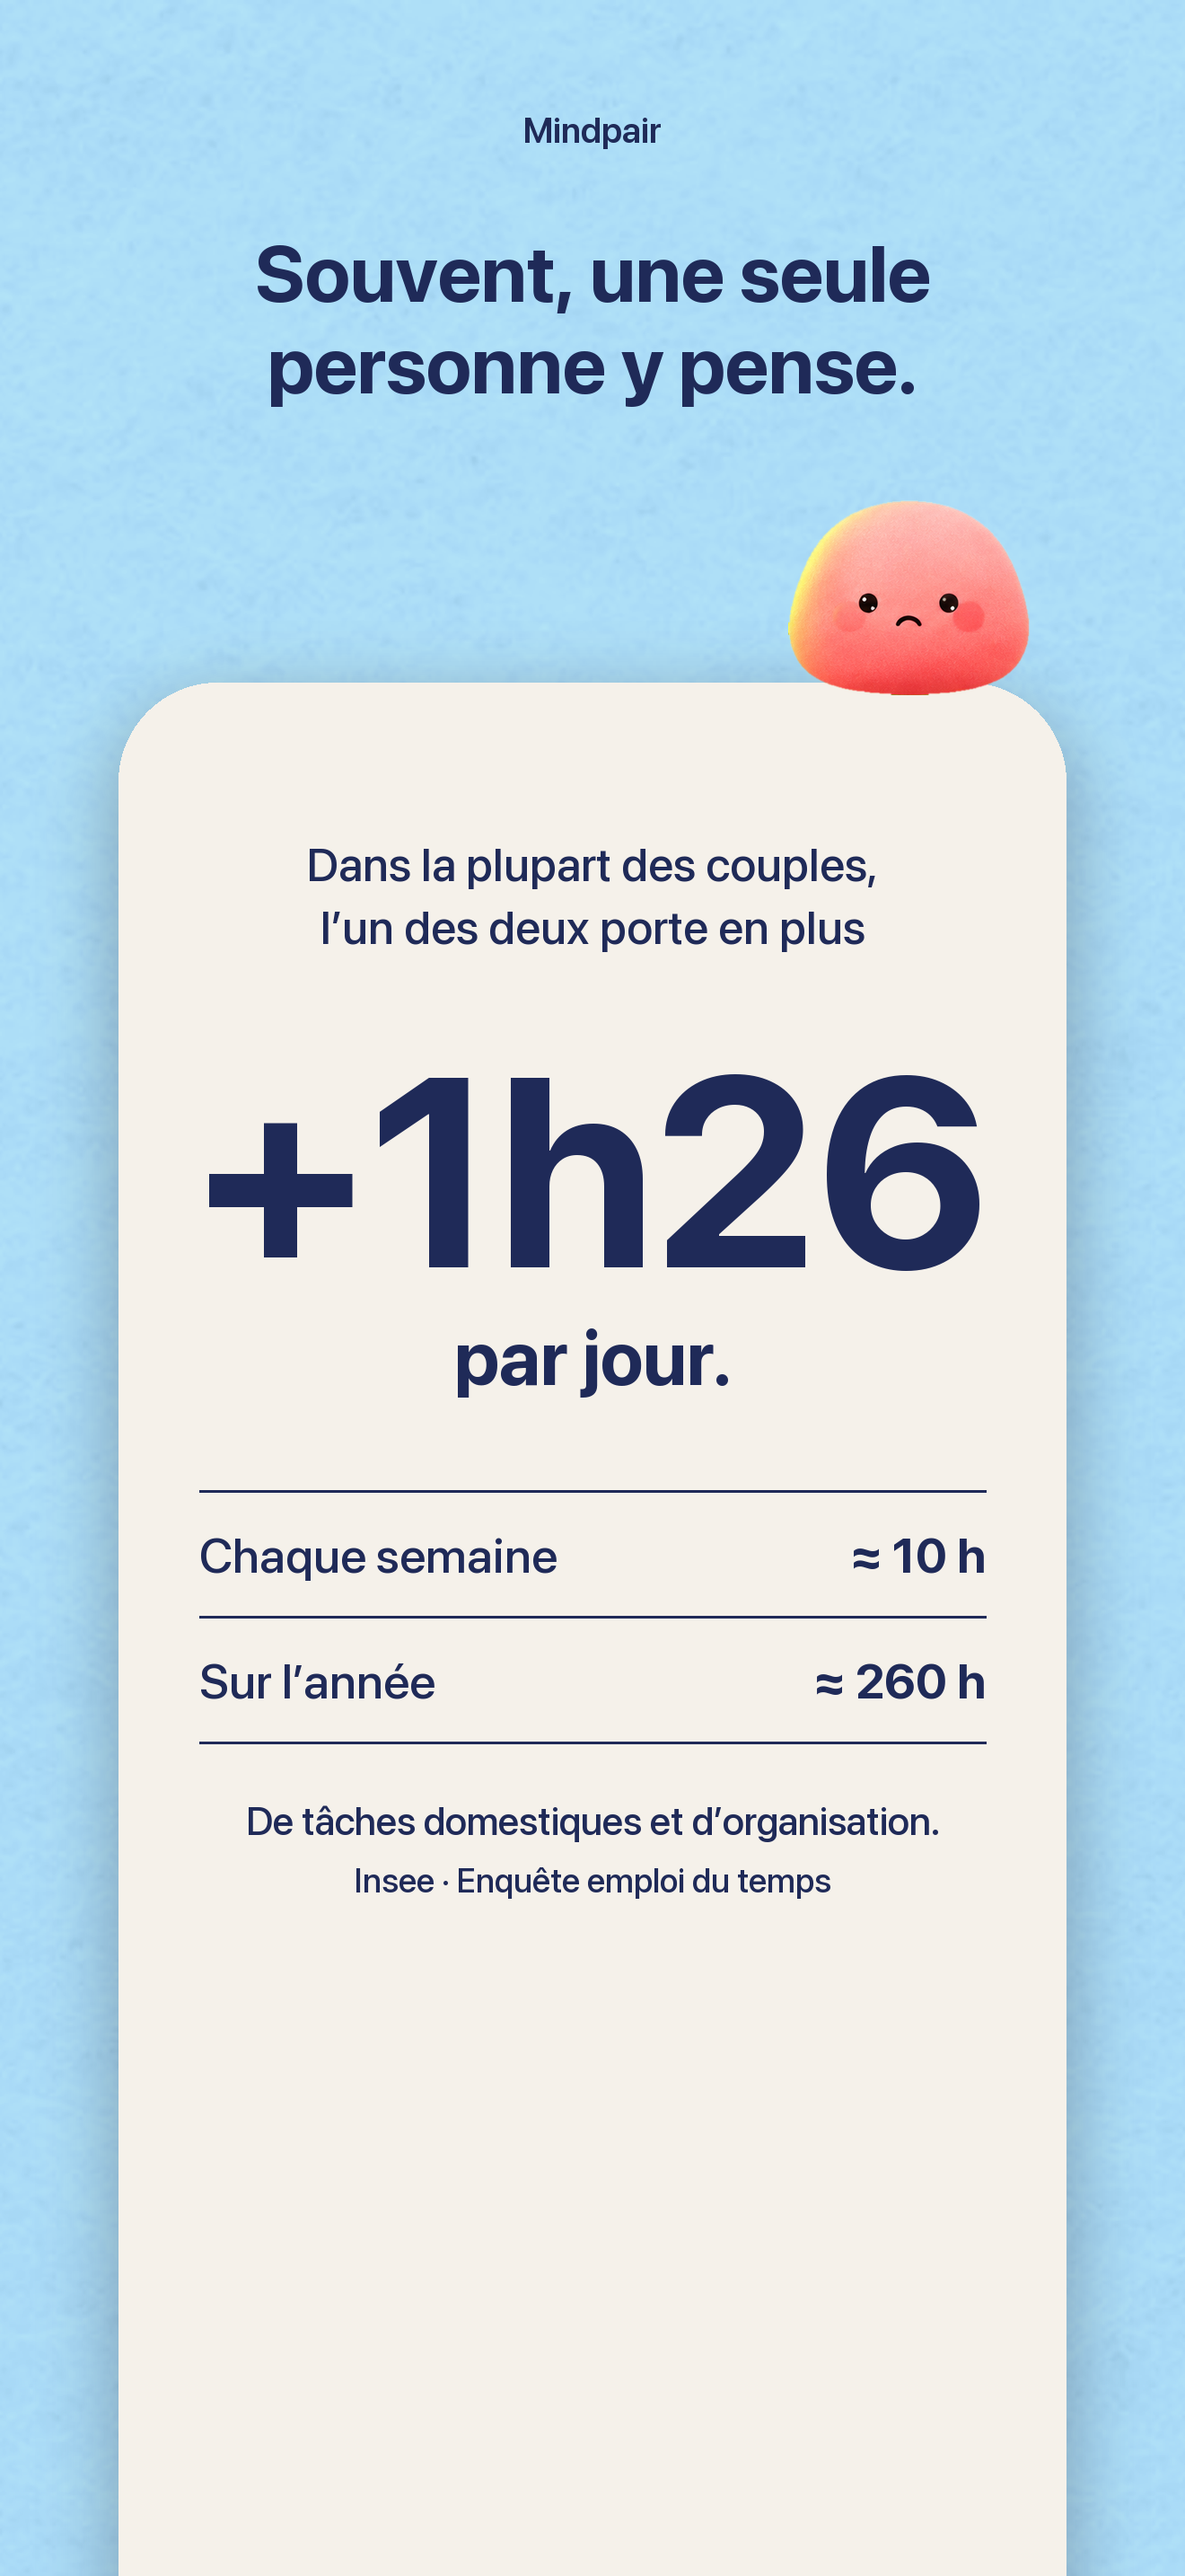
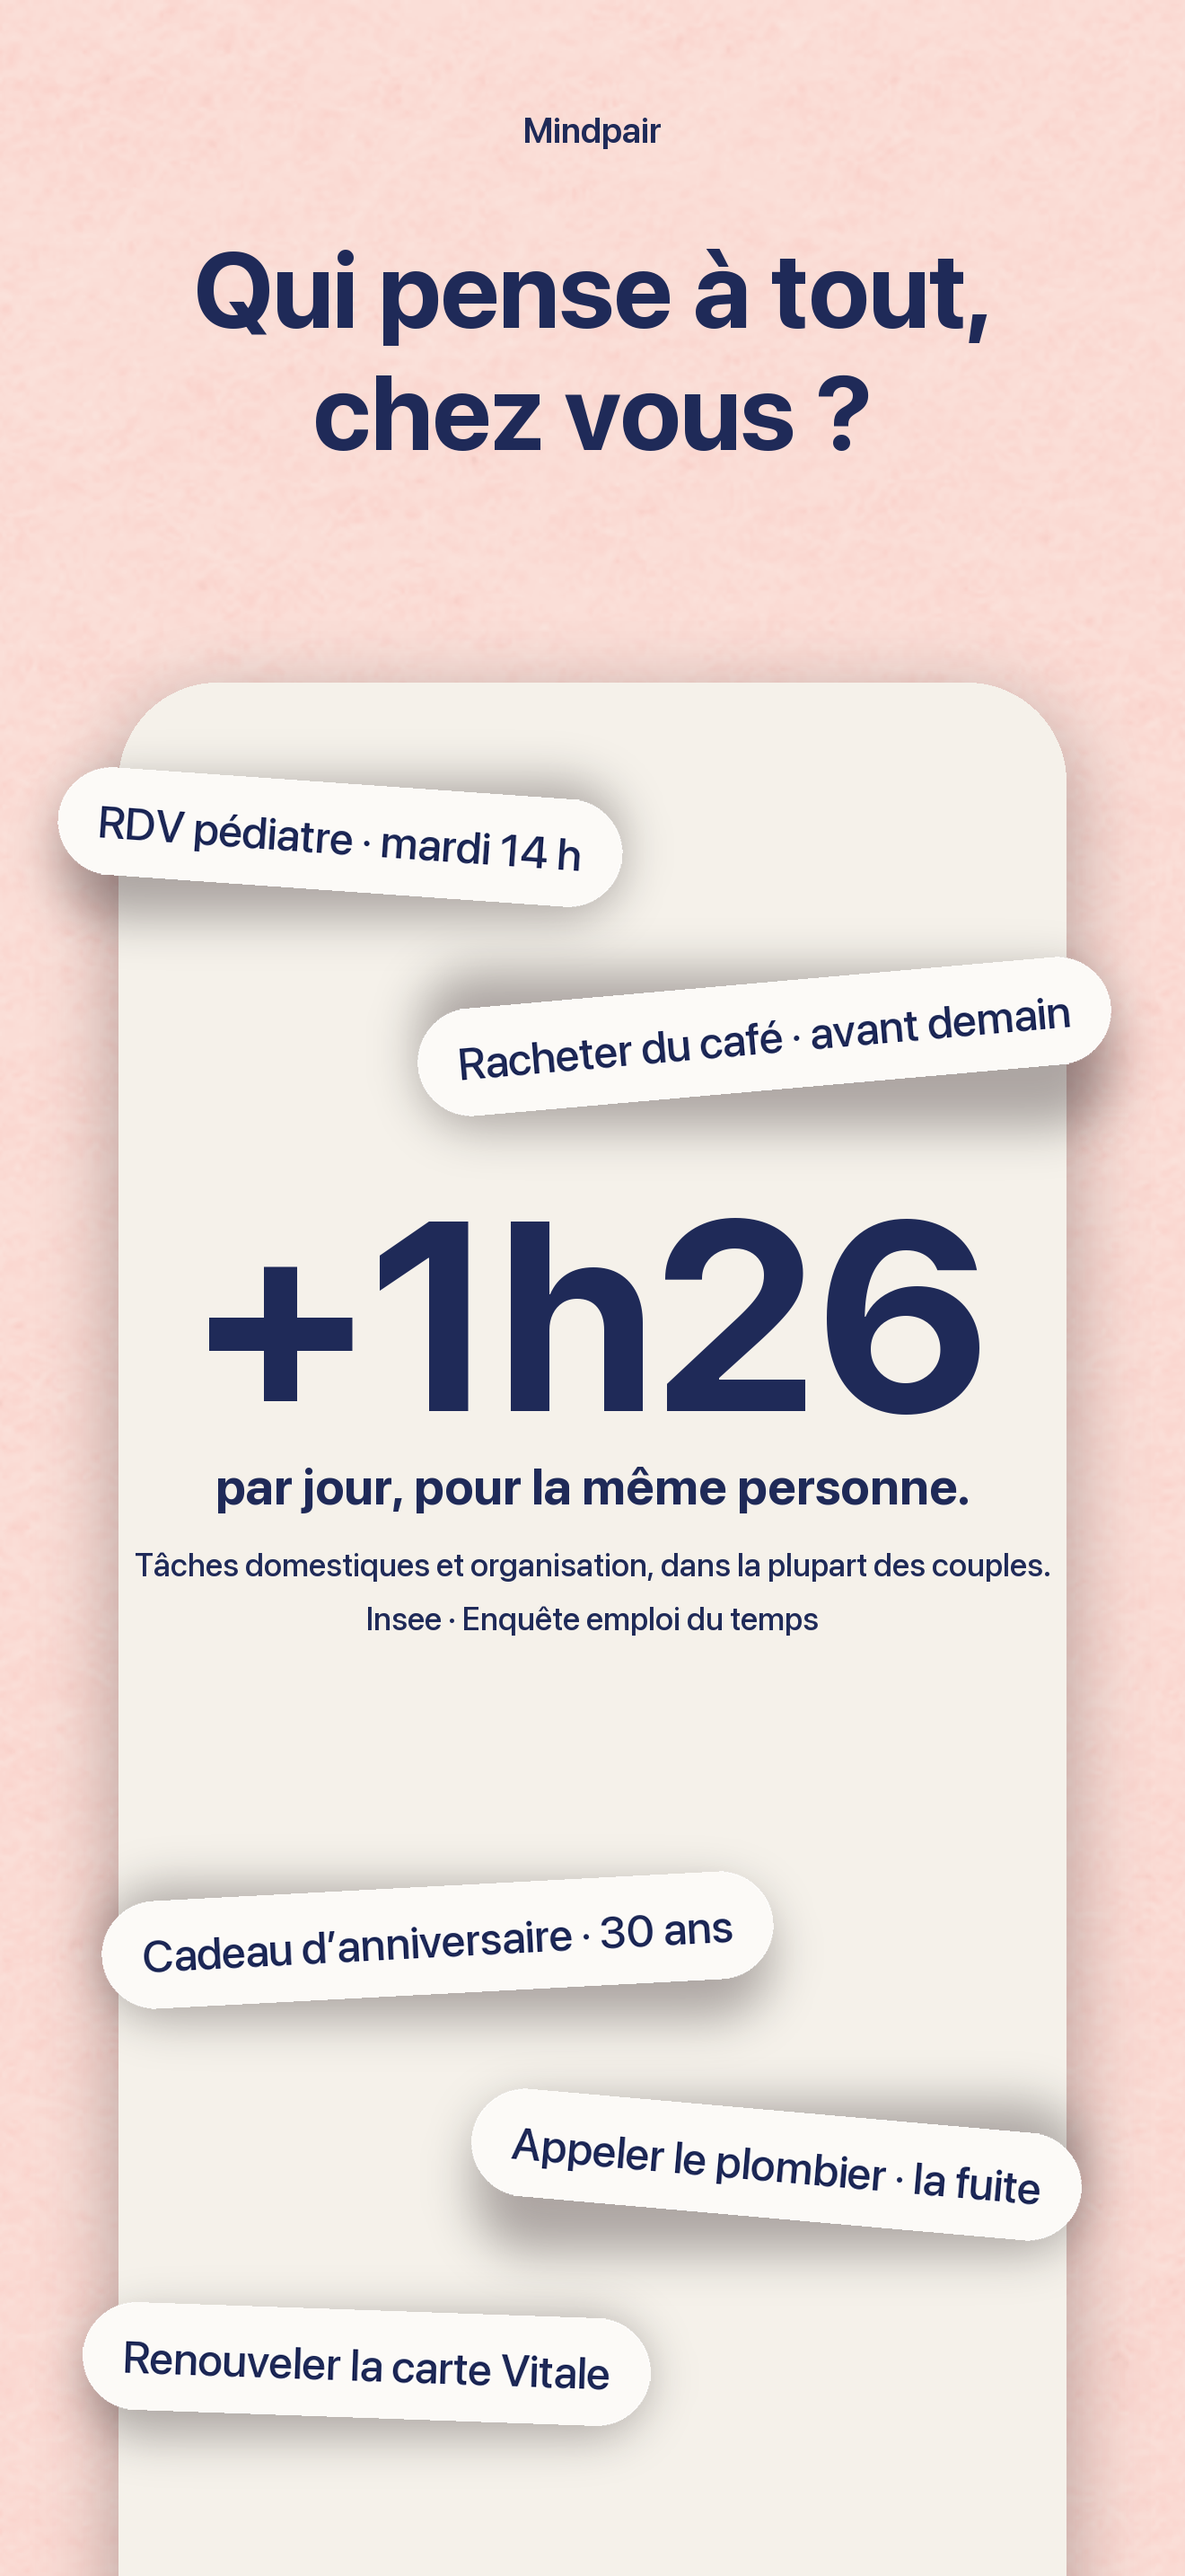
Captures App Store v3 : un fond, titres piquants, vraies notifications qui ressortent

diff --git a/scripts/captures-app-store.py b/scripts/captures-app-store.py
@@ -1,14 +1,14 @@
-# Captures App Store v2 (9 nov 2026) : une grille fixe (titre au même endroit, téléphone même taille / même hauteur),
-# une couleur franche de la pièce de Mochi par écran, Mochi qui réagit au titre, un élément qui ressort du téléphone.
+# Captures App Store v3 (9 nov 2026) : une grille fixe, UN fond (le rose du mur de la pièce, en feutre) pour les six,
+# titres courts et piquants, et ce qui ressort du téléphone raconte : vraies notifications de l'app, pensées en vrac, perles.
 # Captures brutes : design/app-store/brut/ (simulateur iPhone 16 Pro Max, Metro avec EXPO_PUBLIC_CAPTURE=1).
 from PIL import Image, ImageDraw, ImageFont, ImageFilter
 M='/Users/jeannecazalot/mochi/'; B=M+'design/app-store/brut/'; O=M+'design/app-store/'
 W,H=1320,2868; INK=(31,42,88); CREAM=(250,244,236)
 SF='/System/Library/Fonts/SFNS.ttf'
-TITLE_Y=250; TITLES=['Partagez la charge mentale,','en vous amusant.','Souvent, une seule','personne y pense.','Vous listez tout ce qui','tourne dans vos t\u00eates.','Mochi r\u00e9partit,','\u00e9quitablement.','Chacun ses missions.','Plus besoin de relancer.','Et vous \u00e9levez Mochi,','ensemble.']; PHONE_Y=760; PHONE_W=int(W*0.80); MOCHI_W=270
+TITLE_Y=250; TITLES=['La charge mentale,','\u00e7a se partage.','Qui pense \u00e0 tout,','chez vous ?','Videz vos t\u00eates.','\u00c0 deux.','Mochi r\u00e9partit.','Sans d\u00e9bat.','Fini les','\u00ab t\u2019as pens\u00e9 \u00e0\u2026 ? \u00bb','Une mission coch\u00e9e,','une perle gagn\u00e9e.']; PHONE_Y=760; PHONE_W=int(W*0.80); MOCHI_W=270
 def font(sz,w):
     f=ImageFont.truetype(SF,sz); f.set_variation_by_name(w); return f
-_d=ImageDraw.Draw(Image.new('RGB',(10,10))); TITLE_SZ=104
+_d=ImageDraw.Draw(Image.new('RGB',(10,10))); TITLE_SZ=118
 while max(_d.textlength(l,font=font(TITLE_SZ,'Bold')) for l in TITLES)>W-200: TITLE_SZ-=2  # une seule taille pour les six titres
 FELT=Image.open(M+'assets/splash/feutre.jpg').convert('L').resize((H,H)).crop(((H-W)//2,0,(H-W)//2+W,H))
 def bg(col):
@@ -49,49 +49,71 @@ def mochi(im,face):
     x=(W+PHONE_W)//2-MOCHI_W-40; y=PHONE_Y-16-m.height+30
     im.alpha_composite(m,(x,y)); return im
 
-ROSE=(246,196,192); CIEL=(158,207,236); VERT=(166,206,128); JAUNE=(248,214,104); ROUGE=(214,74,64); NUIT=(31,42,88)
+WALL=(244,206,199)
+ICON=Image.open(M+'design/icone/H-meme-cadrage.png').convert('RGBA')
+def notif(im,x,y,w,title_,body_,when='maintenant'):
+    # bannière de notification iOS, textes réels de l'app (copy.push), corps sur 2 lignes au besoin
+    fb=font(42,'Regular'); d0=ImageDraw.Draw(Image.new('RGB',(1,1))); fx=172; maxw=w-fx-40
+    words=body_.split(' '); lines=['']
+    for wd in words:
+        t=(lines[-1]+' '+wd).strip()
+        if d0.textlength(t,font=fb)<=maxw: lines[-1]=t
+        else: lines.append(wd)
+    h=190+56*len(lines); card=Image.new('RGBA',(w,h),(0,0,0,0)); d=ImageDraw.Draw(card)
+    d.rounded_rectangle((0,0,w-1,h-1),56,fill=(252,250,247,250))
+    ic=ICON.resize((104,104),Image.LANCZOS); card.paste(ic,(36,(h-104)//2),rounded(ic,24))
+    d.text((fx,44),title_,font=font(44,'Semibold'),fill=(20,20,24))
+    fw=font(34,'Regular'); tw=d.textlength(when,font=fw); d.text((w-40-tw,50),when,font=fw,fill=(120,120,128))
+    for i,l in enumerate(lines): d.text((fx,108+56*i),l,font=fb,fill=(30,30,36))
+    im=shadow(im,(x,y,x+w,y+h),56,a=110,blur=36,dy=20); im.paste(card,(x,y),card); return im
+def chip(im,x,y,text,angle):
+    f=font(50,'Medium'); d0=ImageDraw.Draw(Image.new('RGB',(1,1))); w=int(d0.textlength(text,font=f))+90; h=120
+    c=Image.new('RGBA',(w,h),(0,0,0,0)); d=ImageDraw.Draw(c); d.rounded_rectangle((0,0,w-1,h-1),60,fill=(252,250,247,255))
+    d.text((45,30),text,font=f,fill=INK); c=c.rotate(angle,expand=True,resample=Image.BICUBIC)
+    im=shadow(im,(x+10,y+10,x+c.width-10,y+c.height-10),60,a=90,blur=26,dy=14); im.alpha_composite(c,(x,y)); return im
 
 # 1 · la promesse
-im=bg(ROSE); title(im,['Partagez la charge mentale,','en vous amusant.'],INK)
-im,g=phone(im,'accueil.png'); im=pop(im,'accueil.png',(40,1170,1280,1260),g,zoom=1.16); im=mochi(im,'happy')
+im=bg(WALL); title(im,['La charge mentale,','\u00e7a se partage.'],INK)
+im,g=phone(im,'accueil.png'); im=pop(im,'accueil.png',(40,1170,1280,1260),g,zoom=1.16)
+im=notif(im,90,PHONE_Y+1180,W-180,'Mindpair','Ketley a termin\u00e9 Vaisselle')
 im.convert('RGB').save(O+'01-promesse.png')
 
-# 2 · le problème : une « carte » à la place du téléphone, même gabarit
-im=bg(CIEL); title(im,['Souvent, une seule','personne y pense.'],INK)
+# 2 · le problème : la carte Insee, et les pensées en vrac qui débordent
+im=bg(WALL); title(im,['Qui pense \u00e0 tout,','chez vous ?'],INK)
 px=(W-PHONE_W)//2; py=PHONE_Y; im=shadow(im,(px,py,px+PHONE_W,H+200),110)
 card=Image.new('RGBA',(PHONE_W,H-py+200),(0xF5,0xF1,0xEA,255)); im.paste(card,(px,py),rounded(card,110))
 d=ImageDraw.Draw(im)
 def ctext(y,t,f,fill):
     w=d.textlength(t,font=f); d.text(((W-w)/2,y),t,font=f,fill=fill)
-ctext(py+170,'Dans la plupart des couples,',font(52,'Medium'),INK+(170,)); ctext(py+240,'l’un des deux porte en plus',font(52,'Medium'),INK+(170,))
-ctext(py+360,'+1h26',font(300,'Bold'),INK); ctext(py+700,'par jour.',font(84,'Bold'),INK)
-y=py+900; fr=font(54,'Medium'); fv=font(54,'Bold')
-for t,v in [('Chaque semaine','≈ 10 h'),('Sur l’année','≈ 260 h')]:
-    d.line((px+90,y,px+PHONE_W-90,y),fill=INK+(40,),width=3); d.text((px+90,y+38),t,font=fr,fill=INK+(180,))
-    w=d.textlength(v,font=fv); d.text((px+PHONE_W-90-w,y+38),v,font=fv,fill=INK); y+=140
-d.line((px+90,y,px+PHONE_W-90,y),fill=INK+(40,),width=3)
-ctext(y+60,'De tâches domestiques et d’organisation.',font(44,'Medium'),INK+(150,))
-ctext(y+130,'Insee · Enquête emploi du temps',font(38,'Medium'),INK+(120,))
-im=mochi(im,'sad'); im.convert('RGB').save(O+'02-probleme.png')
+ctext(py+520,'+1h26',font(300,'Bold'),INK); ctext(py+860,'par jour, pour la m\u00eame personne.',font(56,'Bold'),INK)
+ctext(py+960,'T\u00e2ches domestiques et organisation, dans la plupart des couples.',font(36,'Medium'),INK+(150,))
+ctext(py+1020,'Insee \u00b7 Enqu\u00eate emploi du temps',font(36,'Medium'),INK+(120,))
+for (x,y,t,a) in [(60,PHONE_Y+90,'RDV p\u00e9diatre \u00b7 mardi 14 h',-4),(460,PHONE_Y+300,'Racheter du caf\u00e9 \u00b7 avant demain',5),(110,PHONE_Y+1320,'Cadeau d\u2019anniversaire \u00b7 30 ans',3),(520,PHONE_Y+1560,'Appeler le plombier \u00b7 la fuite',-5),(90,PHONE_Y+1800,'Renouveler la carte Vitale',-2)]:
+    im=chip(im,x,y,t,a)
+im.convert('RGB').save(O+'02-probleme.png')
 
 # 3 · vous listez à deux
-im=bg(VERT); title(im,['Vous listez tout ce qui','tourne dans vos têtes.'],INK)
-im,g=phone(im,'taches.png'); im=pop(im,'taches.png',(56,848,1264,1040),g); im=pop(im,'taches.png',(56,1052,1264,1240),g); im=mochi(im,'surprised')
+im=bg(WALL); title(im,['Videz vos t\u00eates.','\u00c0 deux.'],INK)
+im,g=phone(im,'taches.png'); im=pop(im,'taches.png',(56,848,1264,1040),g); im=pop(im,'taches.png',(56,1052,1264,1240),g)
+im=notif(im,90,PHONE_Y+1500,W-180,'Mindpair','Ketley choisit vos missions. Viens les choisir avec elle ou lui.')
 im.convert('RGB').save(O+'03-lister.png')
 
 # 4 · Mochi répartit
-im=bg(JAUNE); title(im,['Mochi répartit,','équitablement.'],INK)
-im,g=phone(im,'dispatch.png'); im=pop(im,'dispatch.png',(60,872,1260,1144),g,zoom=1.16); im=mochi(im,'happy')
+im=bg(WALL); title(im,['Mochi r\u00e9partit.','Sans d\u00e9bat.'],INK)
+im,g=phone(im,'dispatch.png'); im=pop(im,'dispatch.png',(60,872,1260,1144),g,zoom=1.2)
+im=notif(im,90,PHONE_Y+1560,W-180,'Mindpair','Ketley a r\u00e9parti la semaine : 12 missions. Va voir le Planning.')
 im.convert('RGB').save(O+'04-repartir.png')
 
-# 5 · chacun ses missions
-im=bg(ROUGE); title(im,['Chacun ses missions.','Plus besoin de relancer.'],CREAM)
-im,g=phone(im,'planning.png'); im=pop(im,'planning.png',(40,960,1290,1080),g,zoom=1.16); im=mochi(im,'wink')
+# 5 · plus besoin de relancer : l'app relance à votre place
+im=bg(WALL); title(im,['Fini les','\u00ab t\u2019as pens\u00e9 \u00e0\u2026 ? \u00bb'],INK)
+im,g=phone(im,'planning.png')
+im=notif(im,90,PHONE_Y+760,W-180,'Vaisselle','C\u2019est l\u2019heure. 15 min suffisent.','20:30')
+im=notif(im,90,PHONE_Y+1060,W-180,'Mindpair','Ketley : c\u2019est ton tour pour \u00ab Lessive \u00bb')
 im.convert('RGB').save(O+'05-chacun.png')
 
-# 6 · vous élevez Mochi
-im=bg(NUIT); title(im,['Et vous élevez Mochi,','ensemble.'],CREAM)
-im,g=phone(im,'chambre.png'); im=pop(im,'chambre.png',(60,1300,1264,1515),g,zoom=1.16); im=mochi(im,'happy')
+# 6 · le jeu
+im=bg(WALL); title(im,['Une mission coch\u00e9e,','une perle gagn\u00e9e.'],INK)
+im,g=phone(im,'chambre.png'); im=pop(im,'chambre.png',(1010,190,1270,300),g,zoom=2.0,r=60); im=pop(im,'chambre.png',(60,1300,1264,1515),g,zoom=1.18)
 im.convert('RGB').save(O+'06-mochi.png')
 
 fs=['01-promesse','02-probleme','03-lister','04-repartir','05-chacun','06-mochi']

diff --git a/TODO.md b/TODO.md
@@ -435,3 +435,5 @@ Décisions Jeanne (tableau de bord, 4 nov 2026) : coucher du foyer 22 h (migrati
 9 nov 2026 (nuit) — **Captures App Store v1** (`design/app-store/01…06`, 1320×2868 = iPhone 6,9", planche `planche.png`) : 1 Mindpair (branding, Mochi qui monte), 2 Insee « +1h26 par jour » (texte, chiffres de l'onboarding), 3 choix à deux, 4 Mochi répartit, 5 mission cochée → Mochi (jeu), 6 perles → pièce (jeu). Vraies captures du simulateur en **mode capture** : Metro lancé avec `EXPO_PUBLIC_CAPTURE=1` (cache le bouton Plan, prénom « Jeanne », Accueil sur un foyer d'exemple), roue Expo masquée par `defaults write io.langora.mochi EXDevMenuShowFloatingActionButton -bool NO`, barre d'état `simctl status_bar override`, `chambre?demo=1`, `taches?demo=1`. Composition : `scripts/captures-app-store.py` (éléments qui ressortent du téléphone, façon Headspace ; refs Finch/Headspace/Gentler/How We Feel dans `design/app-store/refs-app-store.png`). Pas encore envoyées sur App Store Connect.
 
 9 nov 2026 (nuit, v2) — **Captures App Store v2** après retour Jeanne (« pas au même endroit, on ne comprend pas à quoi ça sert, beige triste ») : synthèse validée (« Partagez la charge mentale, en vous amusant » → problème Insee → vous listez → Mochi répartit → chacun ses missions → vous élevez Mochi), grille fixe (mot Mindpair, titre à taille unique, téléphone même taille/hauteur), une couleur franche de la pièce par écran (rose, ciel, vert, jaune, rouge, nuit), Mochi assis sur le téléphone avec une expression qui suit le titre, un élément agrandi à sa place. Fichiers `design/app-store/01-promesse … 06-mochi.png`, script `scripts/captures-app-store.py`.
+
+9 nov 2026 (nuit, v3) — **Captures App Store v3** (retour : textes plus péchus, pas de fonds qui changent, plus créatif, Mochi assis inutile) : un seul fond rose du mur en feutre, titres « La charge mentale, ça se partage. / Qui pense à tout, chez vous ? / Videz vos têtes. À deux. / Mochi répartit. Sans débat. / Fini les « t'as pensé à… ? » / Une mission cochée, une perle gagnée. », vraies notifications de l'app (textes exacts de copy.push) en bannières iOS, pensées en vrac autour du chiffre Insee, perles agrandies. Mochi retiré des bords.
